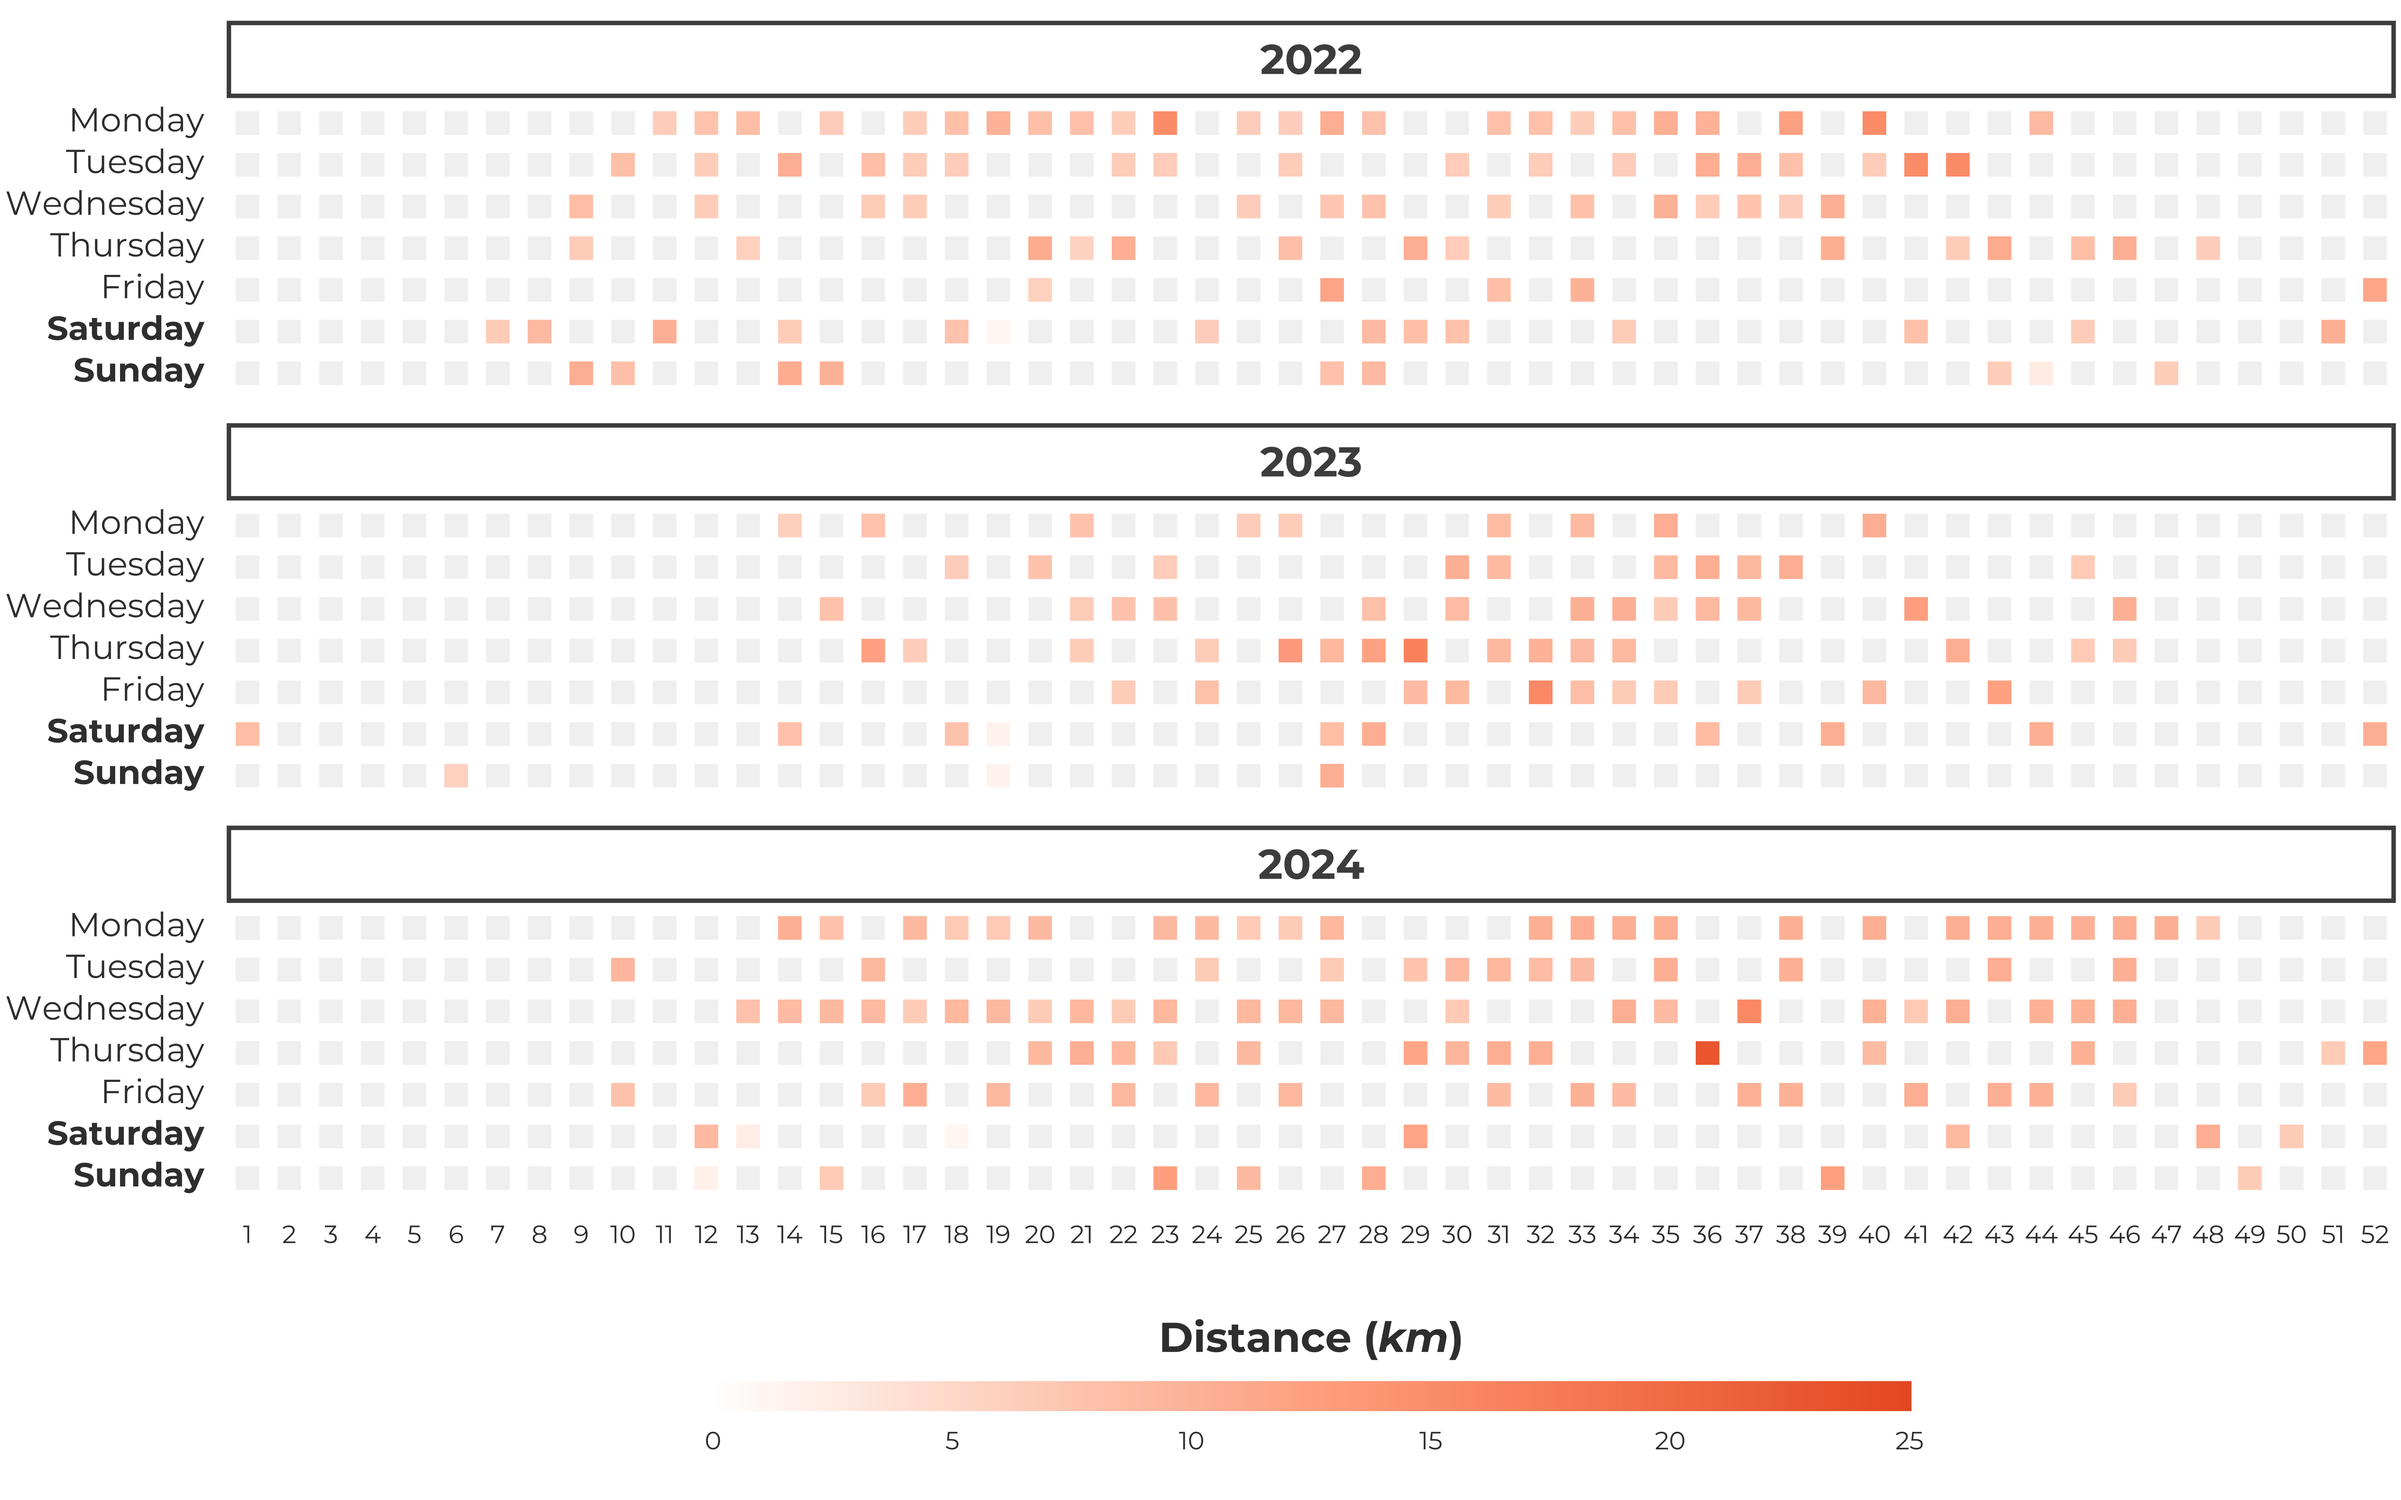
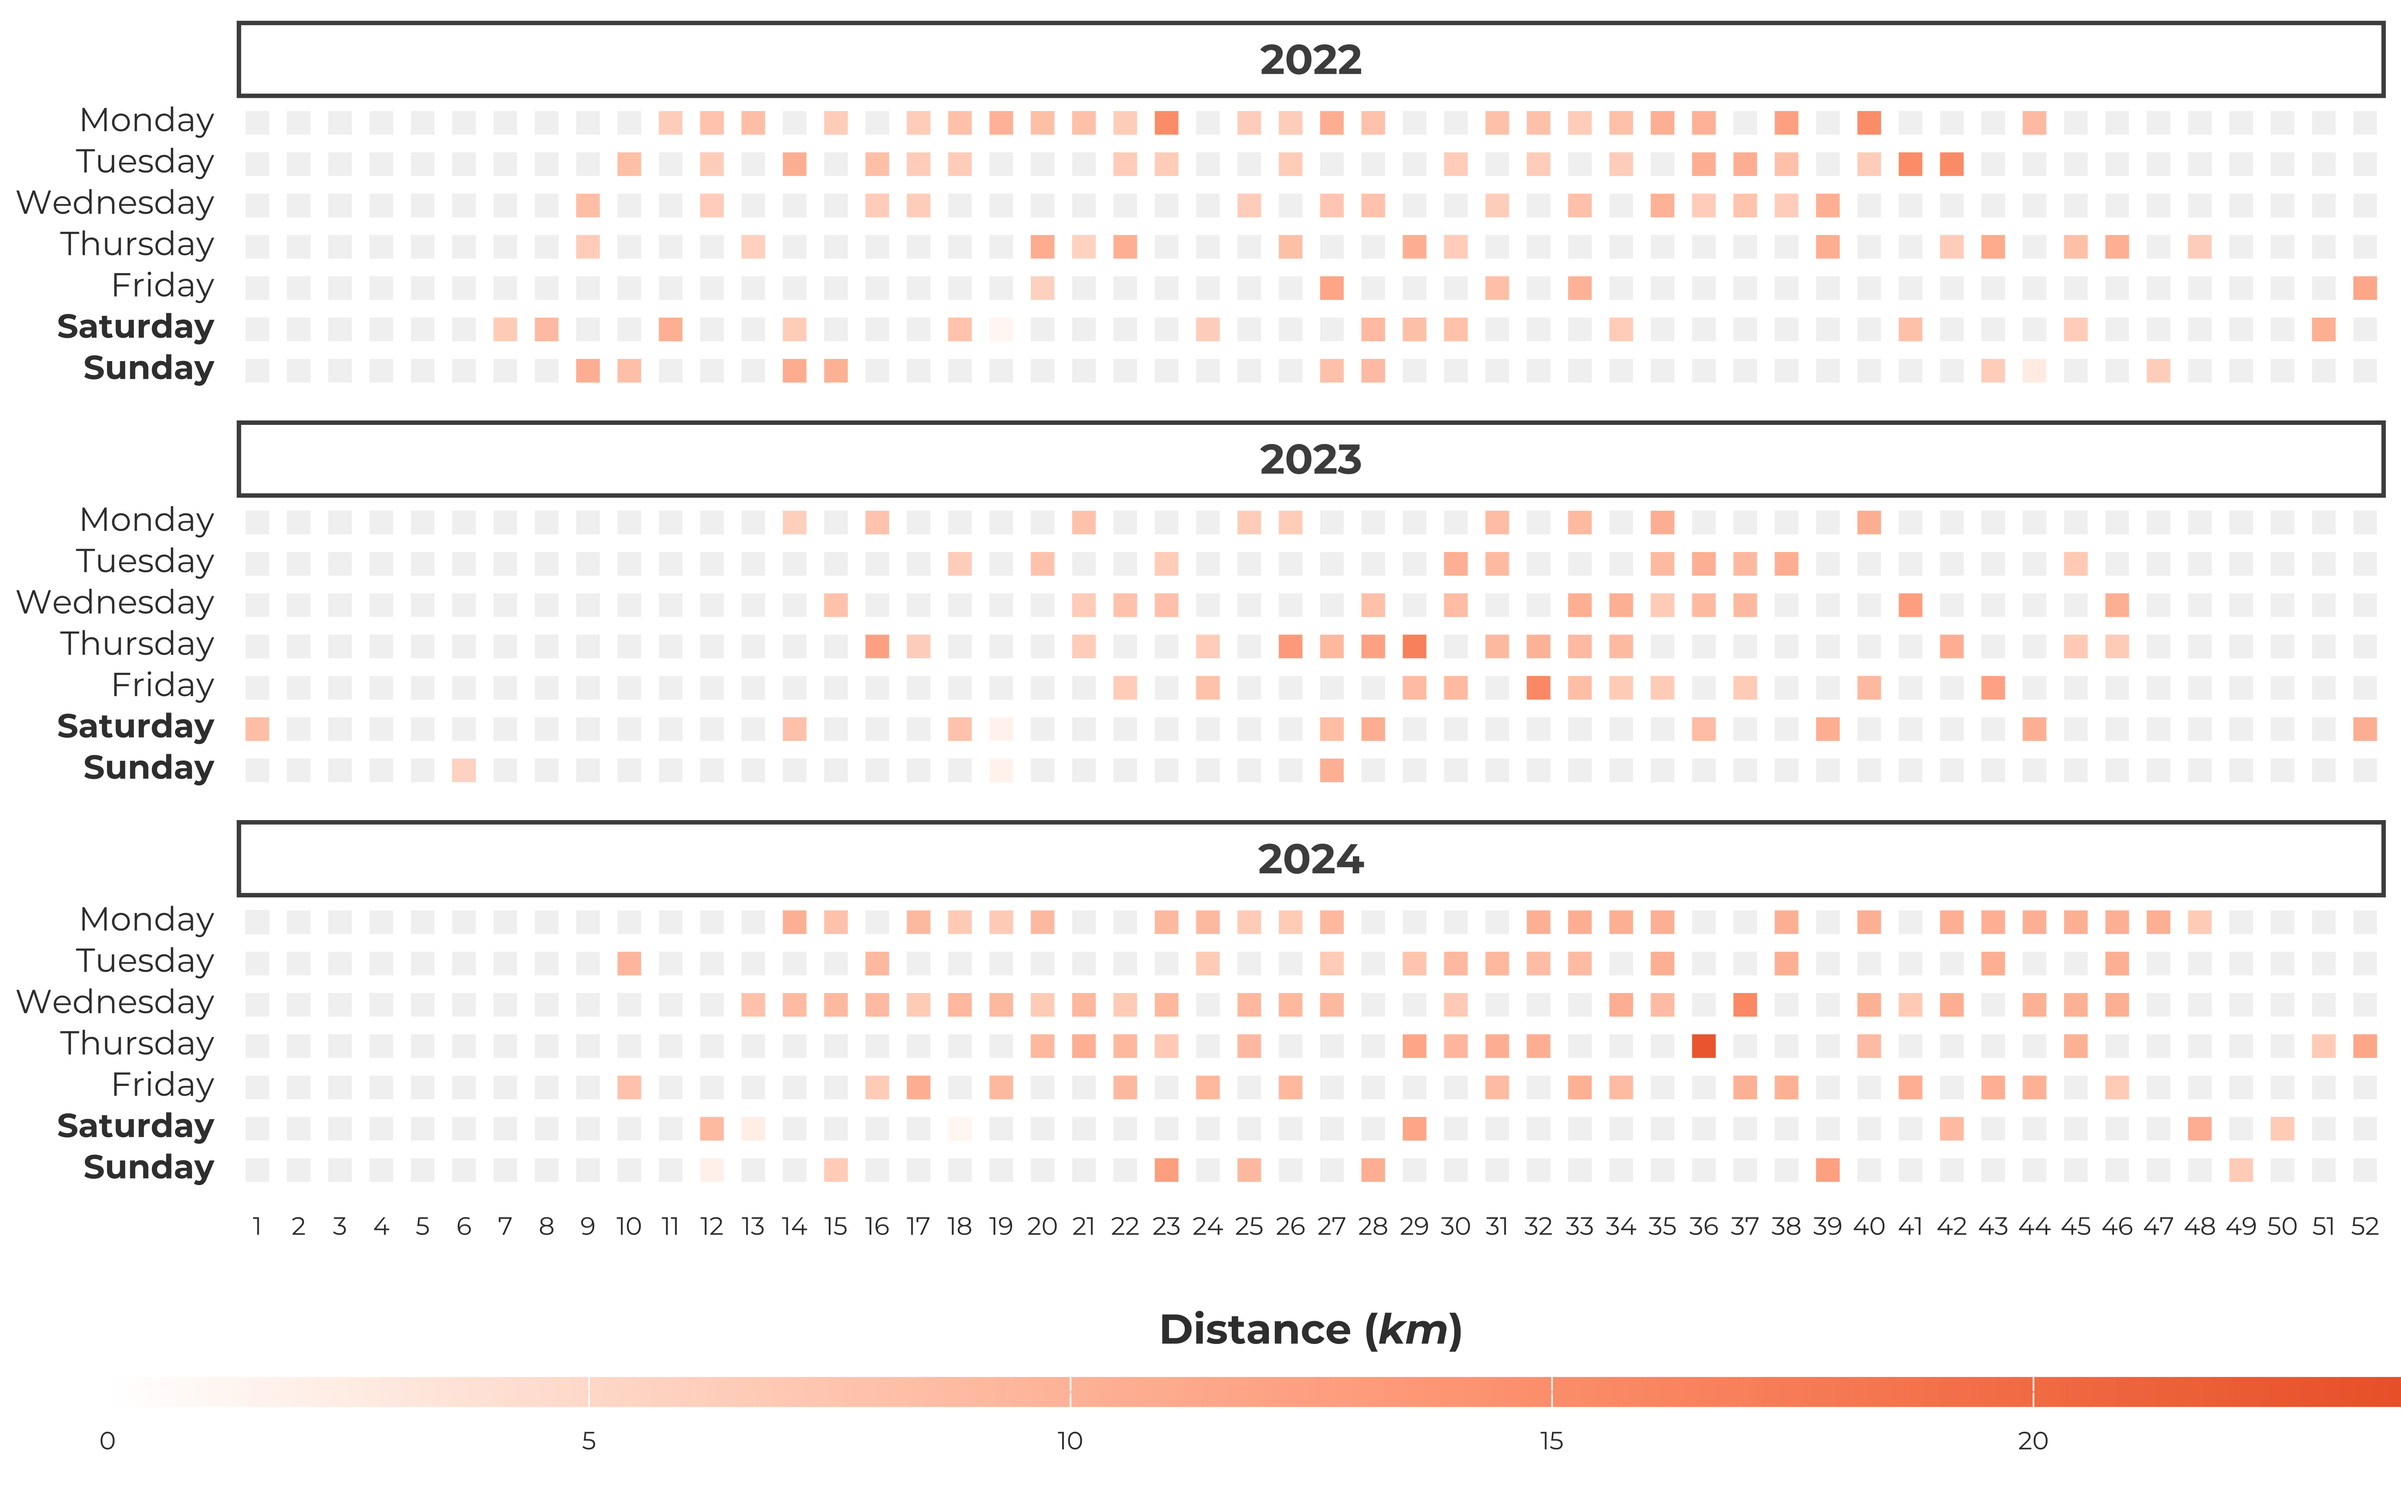
rerun with new ggplot version

diff --git a/content/blog/2024-strava-analysis/index.md b/content/blog/2024-strava-analysis/index.md
@@ -639,7 +639,8 @@ data_run_summ |>
   coord_cartesian(clip = "off") +
   theme_strava() +
   theme(
-    legend.position = c(0.075, 0.8),
+    legend.position = "inside",
+    legend.position.inside = c(0.075, 0.8),
     legend.direction = "vertical",
     legend.background = element_rect(fill = "white"),
     legend.text = element_text(size = 10)
@@ -811,7 +812,7 @@ data_run_summ |>
     limits = c(0, 25),
     na.value = "grey95",
     guide = guide_colorbar(
-      title.position = "top", title.hjust = 0.5,
+      title.position = "top",
       ticks = FALSE,
       barwidth = 20, barheight = 0.5
     )
@@ -820,7 +821,7 @@ data_run_summ |>
   facet_wrap(~year, nrow = 3) +
   theme_strava() +
   theme(
-    legend.title = element_markdown(size = 10),
+    legend.title = element_markdown(size = 10, hjust = 0.5),
     legend.text = element_markdown(size = 6),
     panel.grid.major = element_blank(),
     axis.text.x.bottom = element_text(size = 6),
@@ -889,7 +890,7 @@ data_running |>
   mutate(year = lubridate::year(date)) |>
   filter(longitude > 10) |>
   ggplot(aes(x = longitude, y = latitude, group = activity_id)) +
-  geom_path(color = strava_color, alpha = 0.2, size = 0.5) +
+  geom_path(color = strava_color, alpha = 0.2, linewidth = 0.5) +
   geom_rect(
     aes(
       xmin = as.numeric(Sys.getenv("hide_xmin")),
@@ -918,9 +919,6 @@ data_running |>
   )
 ```
 
-    Warning: Using `size` aesthetic for lines was deprecated in ggplot2 3.4.0.
-    ℹ Please use `linewidth` instead.
-
 <img src="index.markdown_strict_files/figure-markdown_strict/plot-density-map-norway-per-year-1.png" width="768" />
 
 It's a common trope that "running allows you to explore new areas" and that runners then subsequently continue to run the same few routes every time. This applies also for me I'm afraid. The plot again comfirms what I already knew, which is that I run the same few routes multiple times and only change it on ocassion. Even after I moved house I stuck to rougly the same routes. This is even more visible when I'm recreating a plot I saw [Marcus Volz](https://marcusvolz.com/) create once for [a similar project](https://github.com/marcusvolz/strava). It's a facet plot where each tile represents a single running route. It's basically a gallery of all running routes in a year, and I thought it was a beautiful way to visualize the data. We basically use the same code as before, but instead of faceting by year, we now facet by date.
@@ -932,7 +930,7 @@ data_running |>
   ) |>
   ggplot(aes(x = longitude, y = latitude, group = date)) +
   geom_path(
-    size = 0.5, key_glyph = "point", color = strava_color
+    linewidth = 0.5, key_glyph = "point", color = strava_color
   ) +
   geom_rect(
     aes(
